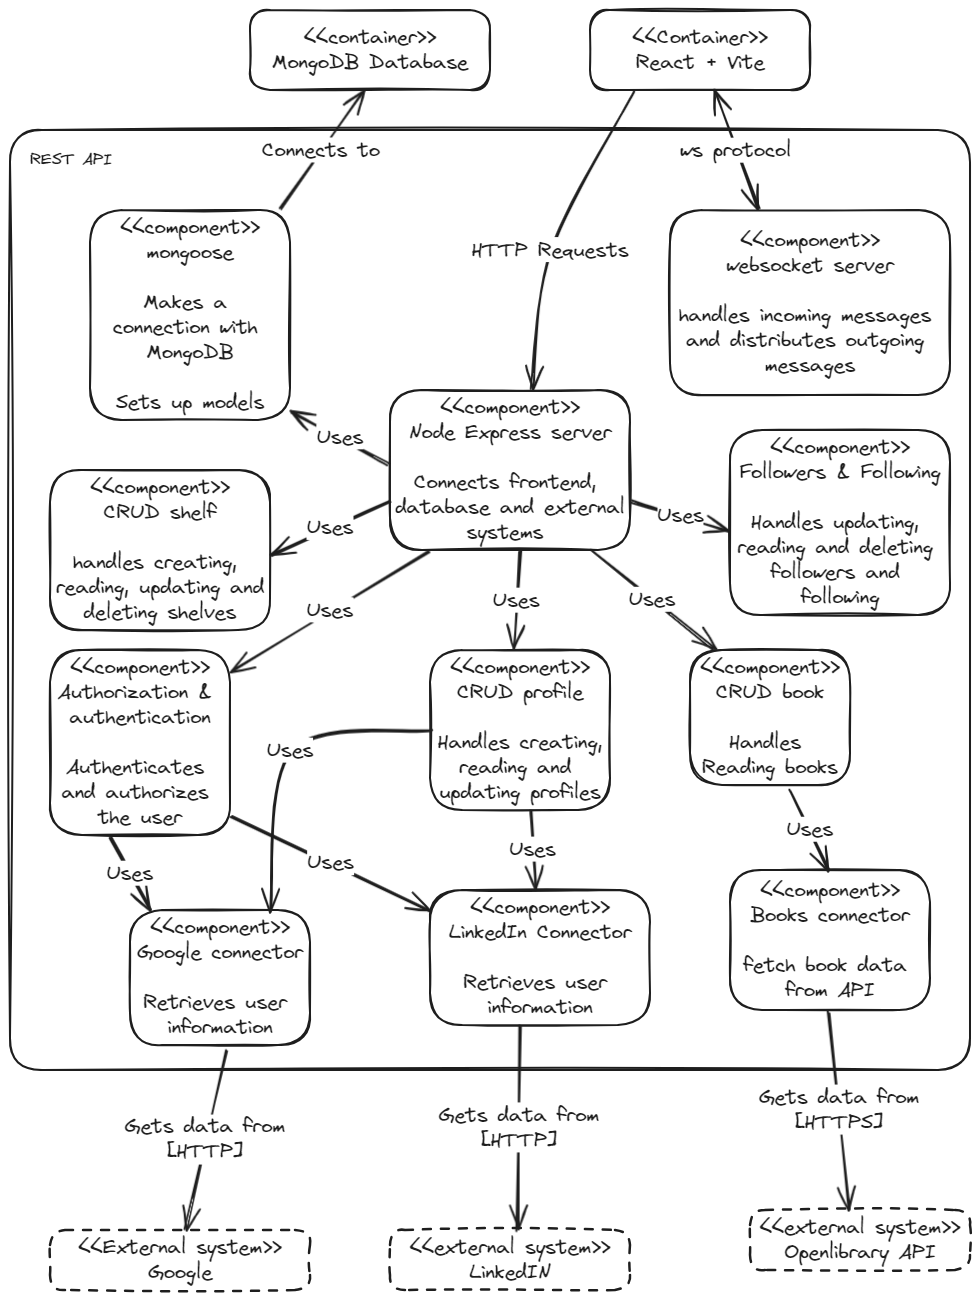
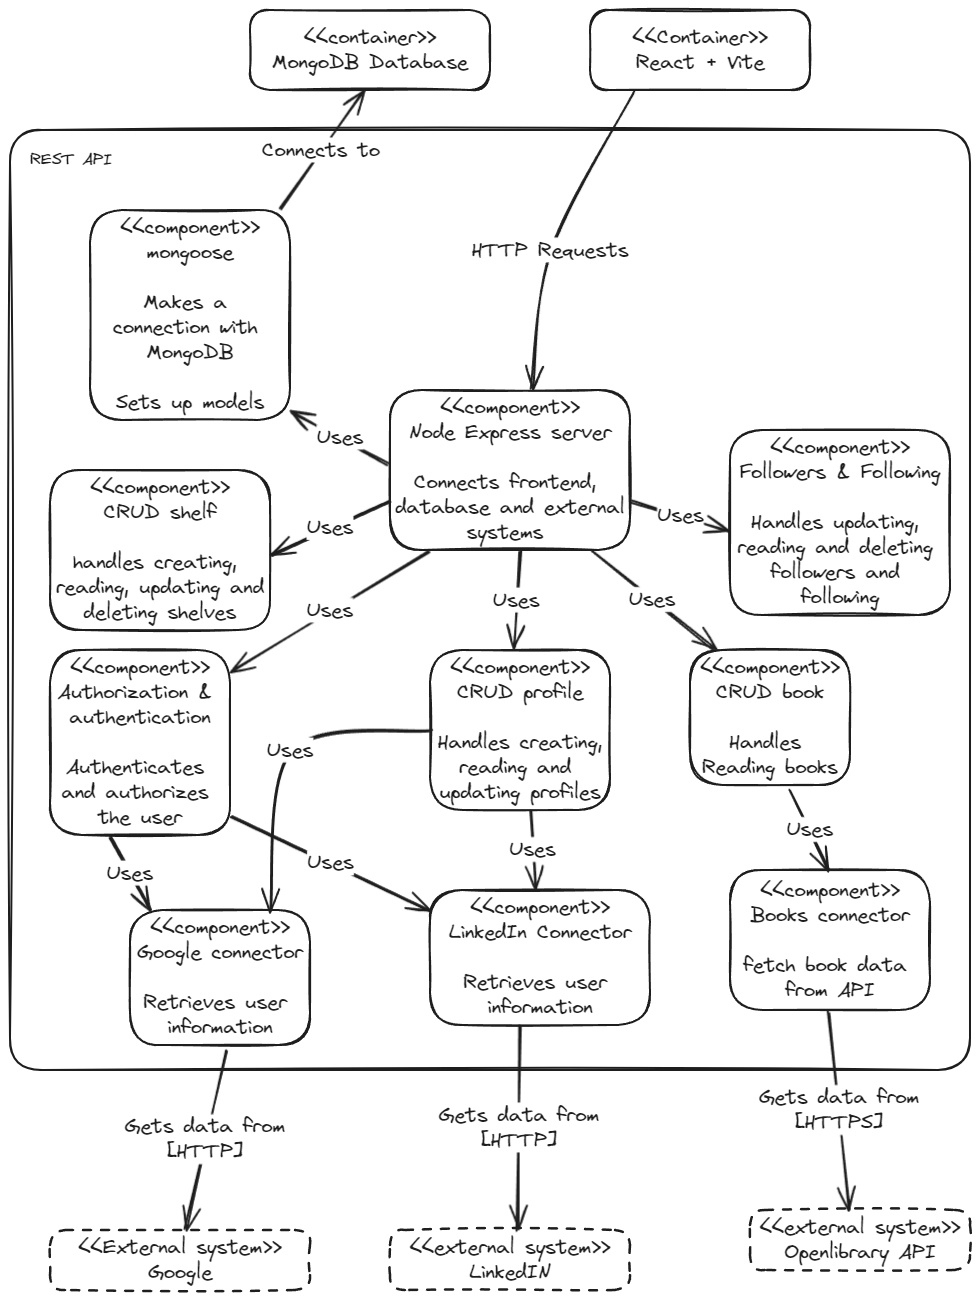
update c4 model documentation

Changed region(s): [[0.6735, 0.0615, 0.9796, 0.3077], [0.6735, 0.1538, 0.7041, 0.1846]]

diff --git a/groepsdocumenten/Software Guidebook/README.md b/groepsdocumenten/Software Guidebook/README.md
@@ -2,36 +2,37 @@
 
 - [**Inhoudsopgave**](#inhoudsopgave)
 - [Context](#context)
-  - [Domain terms](#domain-terms)
+    - [Domain terms](#domain-terms)
 - [Functional Overview](#functional-overview)
-  - [Link met meer informatie](#link-met-meer-informatie)
+    - [Link met meer informatie](#link-met-meer-informatie)
 - [Quality Attributes](#quality-attributes)
 - [Constraints](#constraints)
-  - [Tijd](#tijd)
-  - [Toegestane technologieën](#toegestane-technologieën)
-  - [Bestaande systemen](#bestaande-systemen)
-  - [Implementatieplatform](#implementatieplatform)
-  - [Publieke standaarden](#publieke-standaarden)
-  - [Kennis van het software-development team](#kennis-van-het-software-development-team)
+    - [Tijd](#tijd)
+    - [Toegestane technologieën](#toegestane-technologieën)
+    - [Bestaande systemen](#bestaande-systemen)
+    - [Implementatieplatform](#implementatieplatform)
+    - [Publieke standaarden](#publieke-standaarden)
+    - [Kennis van het software-development team](#kennis-van-het-software-development-team)
 - [Principles](#principles)
 - [Software Architecture](#software-architecture)
-  - [Container diagram](#container-diagram)
-  - [Component MongoDB Diagram](#component-mongodb-diagram)
-  - [Component REST API Diagram](#component-rest-api-diagram)
-  - [Component React/Vite Diagram](#component-reactvite-diagram)
+    - [Container diagram](#container-diagram)
+    - [Component MongoDB Diagram](#component-mongodb-diagram)
+    - [Component REST API Diagram](#component-rest-api-diagram)
+    - [Component React/Vite Diagram](#component-reactvite-diagram)
+    - [Component Websocketserver Diagram](#component-websocketserver-diagram)
 - [External Interfaces](#external-interfaces)
 - [Code](#code)
-  - [Architectural layering](#architectural-layering)
-  - [JWT Verificatie](#jwt-verificatie)
+    - [Architectural layering](#architectural-layering)
+    - [JWT Verificatie](#jwt-verificatie)
 - [Data](#data)
-  - [User schema](#user-schema)
-  - [Book schema](#book-schema)
+    - [User schema](#user-schema)
+    - [Book schema](#book-schema)
 - [Infrastructure Architecture](#infrastructure-architecture)
 - [Deployment](#deployment)
 - [Operatie en support](#operatie-en-support)
-  - [Configuratie](#configuratie)
-  - [Diagnostiek](#diagnostiek)
-  - [Monitoring](#monitoring)
+    - [Configuratie](#configuratie)
+    - [Diagnostiek](#diagnostiek)
+    - [Monitoring](#monitoring)
 - [Decision Log](#decision-log)
 
 # Context
@@ -153,25 +154,34 @@ Kennis van het software-development team over React, Express.js en MongoDB, heef
 
 ![Container](C4-models/C4-model%20container.png)
 
-In dit container diagram is een overzicht te zien van de containers die in de architectuur te vinden zijn. Gebruikers maken via HTTP verbindinging met de React/Vite frontend via een browser. Deze frontend fetcht via HTTP naar de REST API om CRUD operaties uit te voeren. De REST API maakt verbinding met een aantal systemen. Data die in de MongoDB database opgeslagen is, kan via de API gelezen en geschreven worden. Verder maakt de API verbinding met de externe systemen van Google en LinkedIn via HTTP voor authenticatie van gebruikers. En met het systeem van OpenLibrary via HTTP voor het ophalen van boekendata.
+In dit container diagram is een overzicht te zien van de containers die in de architectuur te vinden zijn. Gebruikers maken via HTTP verbindinging met de React/Vite frontend via een browser. Deze frontend fetcht via HTTP naar de REST API om CRUD operaties uit te voeren. Ook krijgt de frontend data via het externe systeem van OpenLibrary via HTTP en wordt er verbinding gemaakt met de websocketserver voor realtime berichten. De REST API maakt verbinding met een aantal systemen. Data die in de MongoDB database opgeslagen is, kan via de API gelezen en geschreven worden. Verder maakt de API verbinding met de externe systemen van Google en LinkedIn via HTTP voor authenticatie van gebruikers. En met het systeem van OpenLibrary via HTTP voor het ophalen van boekendata.
 
 ### Component MongoDB Diagram
 
-![Component MongoDB](C4-models/C4-model%20component%20MongoDB.png)
+![Component MongoDB](C4-models/Component%20MongoDB.png)
 
 De REST API communiceert met de MongoDB database via het Mongo protocol. Deze container bestaat uit een documentenopslag, waarin JSON objecten zijn opgeslagen.
 
 ### Component REST API Diagram
 
-![Component REST API](C4-models/C4-model%20component%20REST%20API.png)
+![Component REST API](C4-models/Component%20REST%20API.png)
 
-De React/Vite container communiceert met het Express component in de REST API. Dit component maakt de verbinding tussen de frontend en backend mogelijk. Express gebruikt het mongoose component om verbinding te maken met de MongoDB container. Verder gebruikt Express een authenticatie component die ieder via een connector verbinding maakt met het externe systeem voor authenticatie. Er is nog een connector voor boeken die verbinding maakt met het OpenLibrary systeem. En een profielbewerk component, waarin aanpassingen aan een gebruiker worden gedaan.
+De React/Vite container communiceert met het Express component in de REST API, dat wordt gerund met nodejs. Dit component gebruikt het mongoose component om verbinding te maken met de MongoDB database. Verder worden CRUD operaties met betrekking tot het profiel, een plank en boeken uitgevoerd door de desbetreffende componenten, waar het Express component gebruik van maakt. Het lezen van profielinformatie en de authenticatie gebeurt door middel van de Google en LinkedIn connectors die respectievelijk gebruik maken van de externe systemen van Google en LinkedIn. Het lezen van boekinformatie gebeurt via de books connector, dat gebruik maakt van het externe systeem van OpenLibrary.
+Tot slot worden volgers en gevolgde accounts nog geüpdatet in het eigen component.
 
 ### Component React/Vite Diagram
 
-![Component React/Vite](C4-models/C4-model%20component%20react+vite.png)
+![Component React/Vite](C4-models/Component%20React+Vite.png)
 
-De Pages component communiceert via HTTP met de REST API en de externe systemen voor authenticatie en boekeninformatie. Dit component bevat de pagina's die de gebruiker te zien krijgt. Er wordt gebruik gemaakt van het Material UI component die veel React componenten bevat die worden gebruikt. De Router component bepaalt de URL's die worden gebruikt voor de verschillende pagina's.
+Op de frontend is een gebruiker die interacteert met de beschikbare pagina's. Er is een main script component die zorgt voor de setup van React, Redux en websockets. Dit component maakt gebruik van React Router voor de correcte rendering van pagina's bij een route. Het Router component maakt gebruik van alle beschikbare pagina's. Er zijn componenten voor het zoeken van profielen, de authenticatie, de boekendetailpagina, het zoeken van boeken, het zoeken van auteurs, de boekenkast van de gebruiker en voor de profielinformatie. 
+Het authenticatiecomponent maakt gebruik van de externe systemen van LinkedIn en Google. De boekendetailpagina maakt gebruik van het systeem van Amazon via een Amazon connector, voor het linken naar de webshop en van OpenLibrary. Het zoeken van boeken en auteurs maakt ook gebruik van OpenLibrary en van het component voor het scannen van boeken. 
+De profielinformatie fetcht data van en naar de REST API. Verder is dit component nog verder verdeeld in het delen van je profiel (waarbij een social card wordt gegenereerd), het weergeven van boekenplanken, het volgen van gebruikers en het weergeven van notificaties. Deze laatste twee gebruiken de websocket component om live berichten te sturen en te ontvangen van de websocketserver.
+
+### Component Websocketserver Diagram
+
+![Component Websocketserver](C4-models/C4-model%20component%20websocketserver.png)
+
+De frontend "React + Vite" maakt gebruik van de websocket server. De "server setup" component zorgt ervoor dat er een websocketserver beschikbaar is waar clients mee kunnen verbinden. Er wordt hier een handler aan gekoppeld die inkomende berichten afhandelt. Dit component gebruikt een broadcast component die ervoor zorgt dat een uitgaand bericht wordt verstuurd naar de volgers van de client waarvan het bericht afkomstig is.
 
 # External Interfaces
 

diff --git a/groepsdocumenten/Software Guidebook/06_Software Architecture.md b/groepsdocumenten/Software Guidebook/06_Software Architecture.md
@@ -4,26 +4,31 @@
 
 ![Container](C4-models/C4-model%20container.png)
 
-In dit container diagram is een overzicht te zien van de containers die in de architectuur te vinden zijn. Gebruikers maken via HTTP verbindinging met de React/Vite frontend via een browser. Deze frontend fetcht via HTTP naar de REST API om CRUD operaties uit te voeren. De REST API maakt verbinding met een aantal systemen. Data die in de MongoDB database opgeslagen is, kan via de API gelezen en geschreven worden. Verder maakt de API verbinding met de externe systemen van Google en LinkedIn via HTTP voor authenticatie van gebruikers. En met het systeem van OpenLibrary via HTTP voor het ophalen van boekendata.
+In dit container diagram is een overzicht te zien van de containers die in de architectuur te vinden zijn. Gebruikers maken via HTTP verbindinging met de React/Vite frontend via een browser. Deze frontend fetcht via HTTP naar de REST API om CRUD operaties uit te voeren. Ook krijgt de frontend data via het externe systeem van OpenLibrary via HTTP en wordt er verbinding gemaakt met de websocketserver voor realtime berichten. De REST API maakt verbinding met een aantal systemen. Data die in de MongoDB database opgeslagen is, kan via de API gelezen en geschreven worden. Verder maakt de API verbinding met de externe systemen van Google en LinkedIn via HTTP voor authenticatie van gebruikers. En met het systeem van OpenLibrary via HTTP voor het ophalen van boekendata.
 
 ### Component MongoDB Diagram
 
-![Component MongoDB](C4-models/C4-model%20component%20MongoDB.png)
+![Component MongoDB](C4-models/Component%20MongoDB.png)
 
 De REST API communiceert met de MongoDB database via het Mongo protocol. Deze container bestaat uit een documentenopslag, waarin JSON objecten zijn opgeslagen.
 
 ### Component REST API Diagram
 
-![Component REST API](C4-models/C4-model%20component%20REST%20API.png)
+![Component REST API](C4-models/Component%20REST%20API.png)
 
-De React/Vite container communiceert met het Express component in de REST API. Dit component maakt de verbinding tussen de frontend en backend mogelijk. Express gebruikt het mongoose component om verbinding te maken met de MongoDB container. Verder gebruikt Express een authenticatie component die ieder via een connector verbinding maakt met het externe systeem voor authenticatie. Er is nog een connector voor boeken die verbinding maakt met het OpenLibrary systeem. En een profielbewerk component, waarin aanpassingen aan een gebruiker worden gedaan.
+De React/Vite container communiceert met het Express component in de REST API, dat wordt gerund met nodejs. Dit component gebruikt het mongoose component om verbinding te maken met de MongoDB database. Verder worden CRUD operaties met betrekking tot het profiel, een plank en boeken uitgevoerd door de desbetreffende componenten, waar het Express component gebruik van maakt. Het lezen van profielinformatie en de authenticatie gebeurt door middel van de Google en LinkedIn connectors die respectievelijk gebruik maken van de externe systemen van Google en LinkedIn. Het lezen van boekinformatie gebeurt via de books connector, dat gebruik maakt van het externe systeem van OpenLibrary.
+Tot slot worden volgers en gevolgde accounts nog geüpdatet in het eigen component.
 
 ### Component React/Vite Diagram
 
-![Component React/Vite](C4-models/C4-model%20component%20react+vite.png)
+![Component React/Vite](C4-models/Component%20React+Vite.png)
 
-De Pages component communiceert via HTTP met de REST API en de externe systemen voor authenticatie en boekeninformatie. Dit component bevat de pagina's die de gebruiker te zien krijgt. Er wordt gebruik gemaakt van het Material UI component die veel React componenten bevat die worden gebruikt. De Router component bepaalt de URL's die worden gebruikt voor de verschillende pagina's.
+Op de frontend is een gebruiker die interacteert met de beschikbare pagina's. Er is een main script component die zorgt voor de setup van React, Redux en websockets. Dit component maakt gebruik van React Router voor de correcte rendering van pagina's bij een route. Het Router component maakt gebruik van alle beschikbare pagina's. Er zijn componenten voor het zoeken van profielen, de authenticatie, de boekendetailpagina, het zoeken van boeken, het zoeken van auteurs, de boekenkast van de gebruiker en voor de profielinformatie. 
+Het authenticatiecomponent maakt gebruik van de externe systemen van LinkedIn en Google. De boekendetailpagina maakt gebruik van het systeem van Amazon via een Amazon connector, voor het linken naar de webshop en van OpenLibrary. Het zoeken van boeken en auteurs maakt ook gebruik van OpenLibrary en van het component voor het scannen van boeken. 
+De profielinformatie fetcht data van en naar de REST API. Verder is dit component nog verder verdeeld in het delen van je profiel (waarbij een social card wordt gegenereerd), het weergeven van boekenplanken, het volgen van gebruikers en het weergeven van notificaties. Deze laatste twee gebruiken de websocket component om live berichten te sturen en te ontvangen van de websocketserver.
 
 ### Component Websocketserver Diagram
 
 ![Component Websocketserver](C4-models/C4-model%20component%20websocketserver.png)
+
+De frontend "React + Vite" maakt gebruik van de websocket server. De "server setup" component zorgt ervoor dat er een websocketserver beschikbaar is waar clients mee kunnen verbinden. Er wordt hier een handler aan gekoppeld die inkomende berichten afhandelt. Dit component gebruikt een broadcast component die ervoor zorgt dat een uitgaand bericht wordt verstuurd naar de volgers van de client waarvan het bericht afkomstig is.
